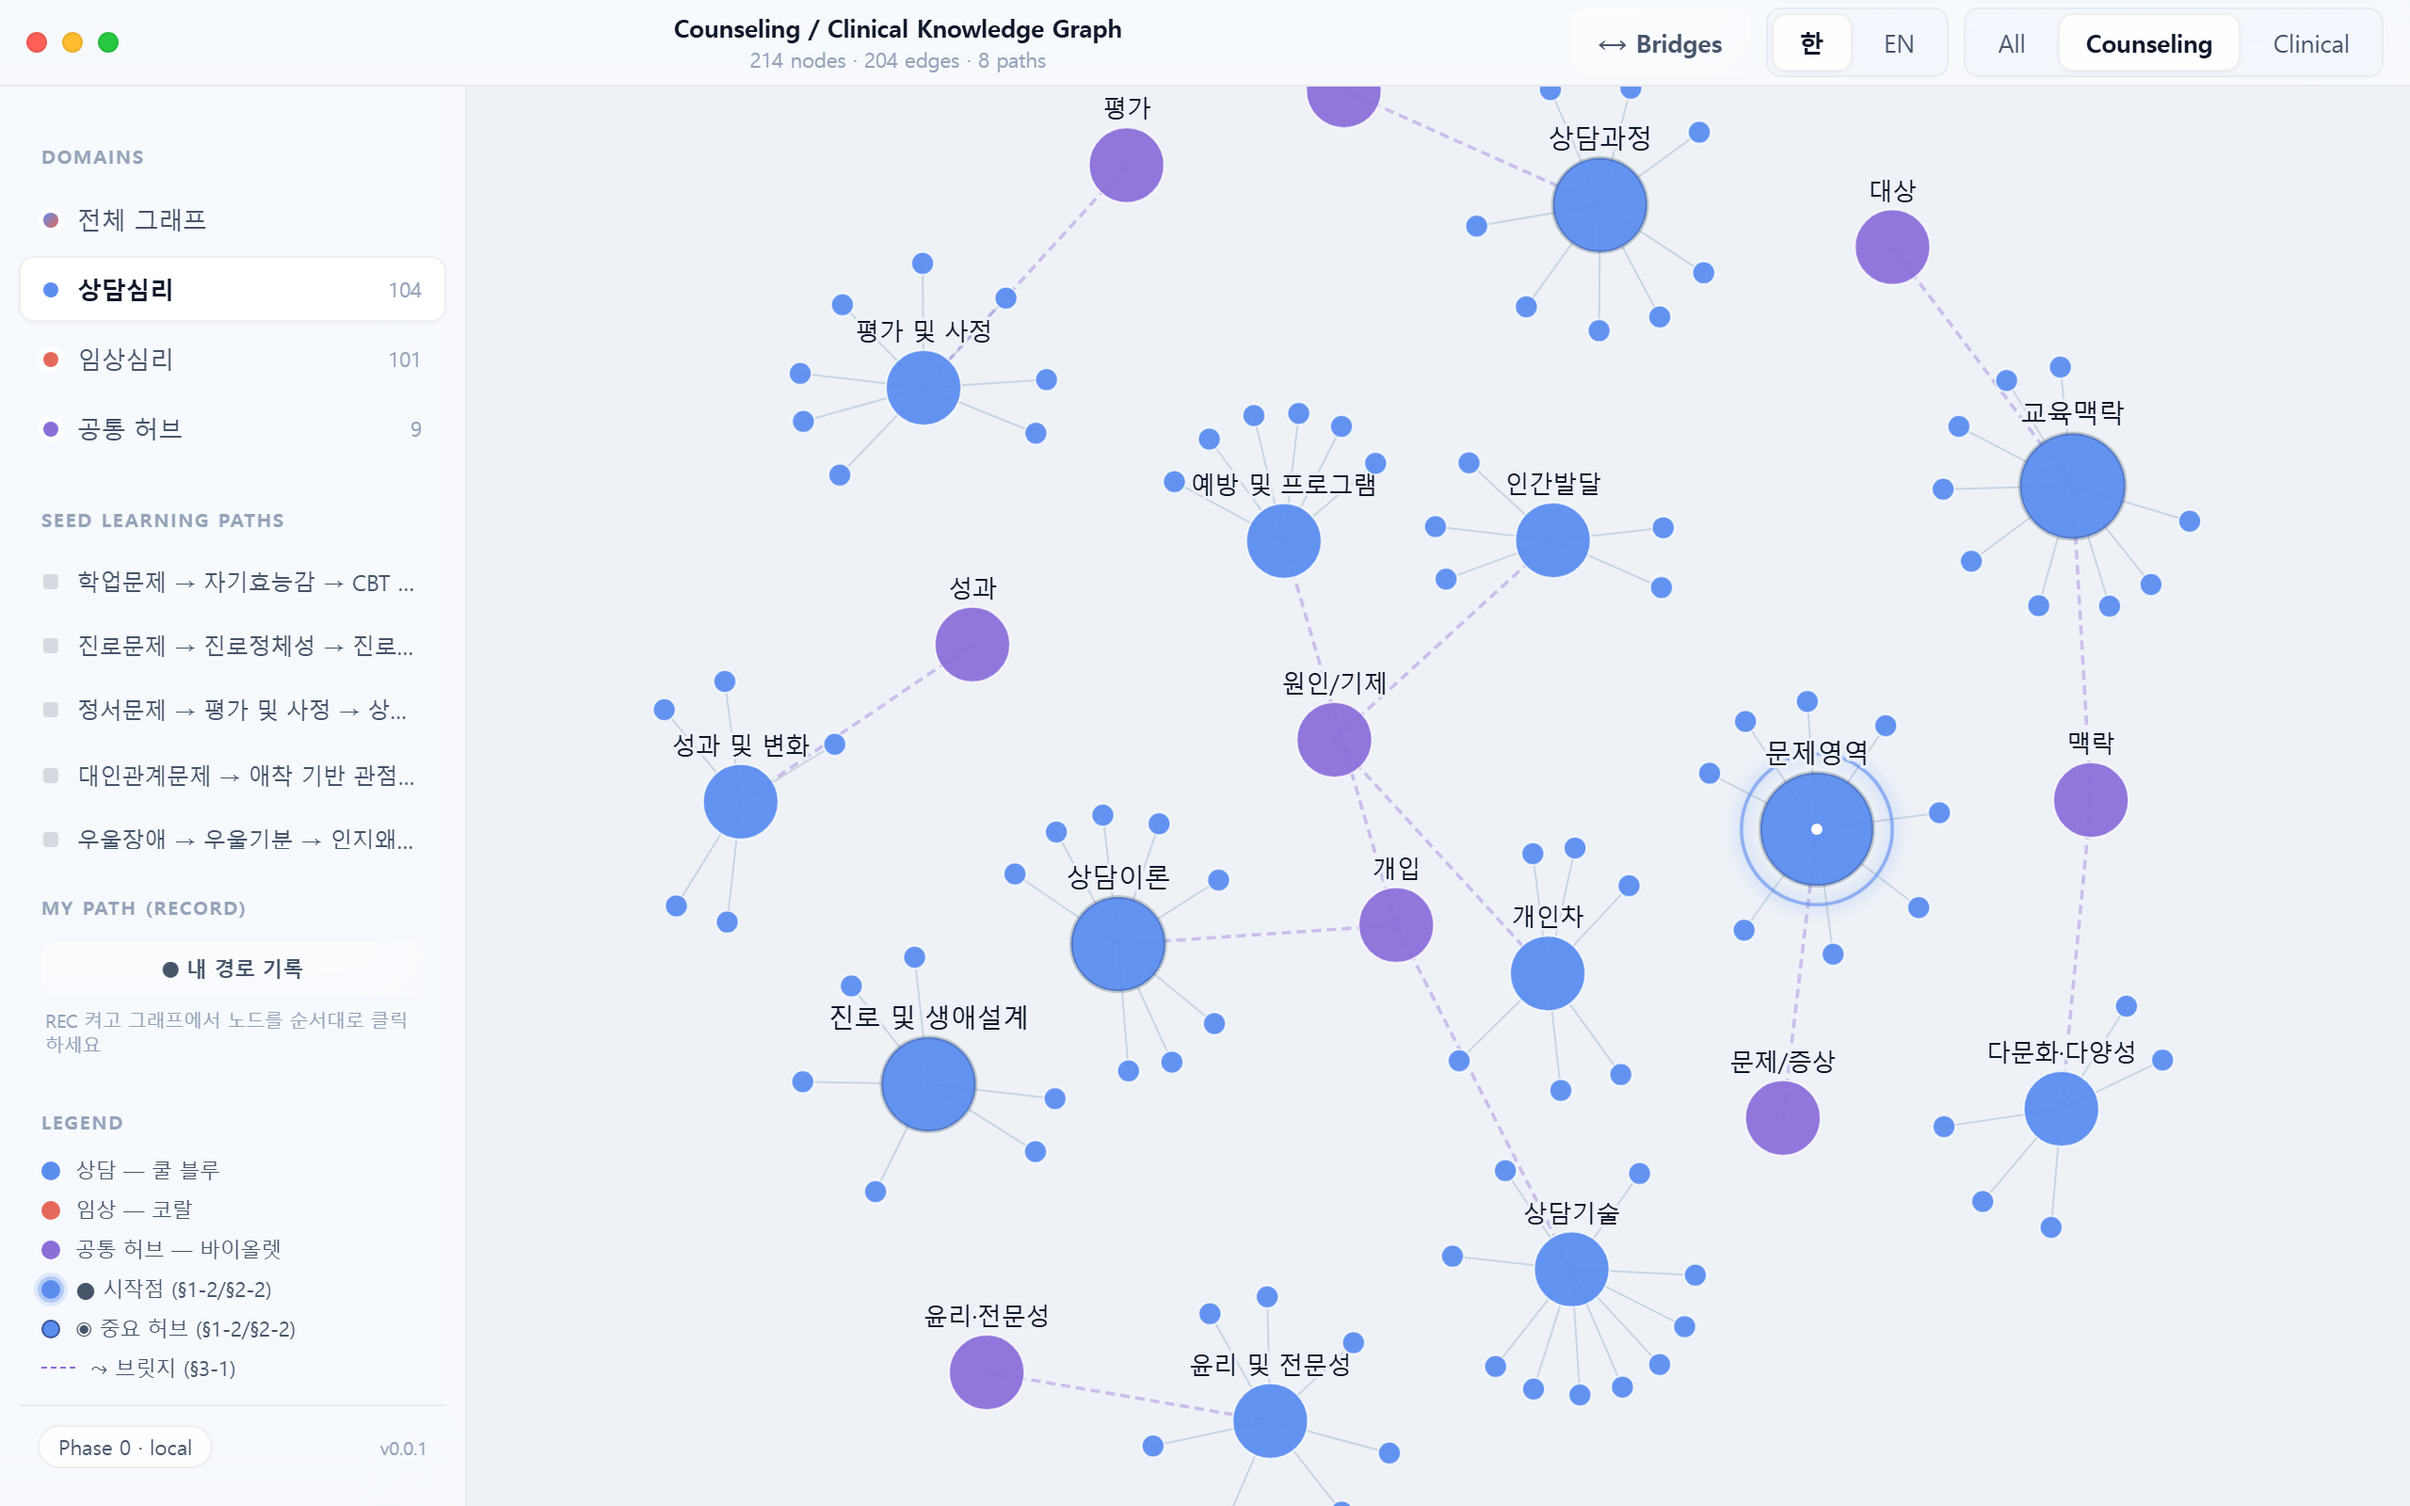
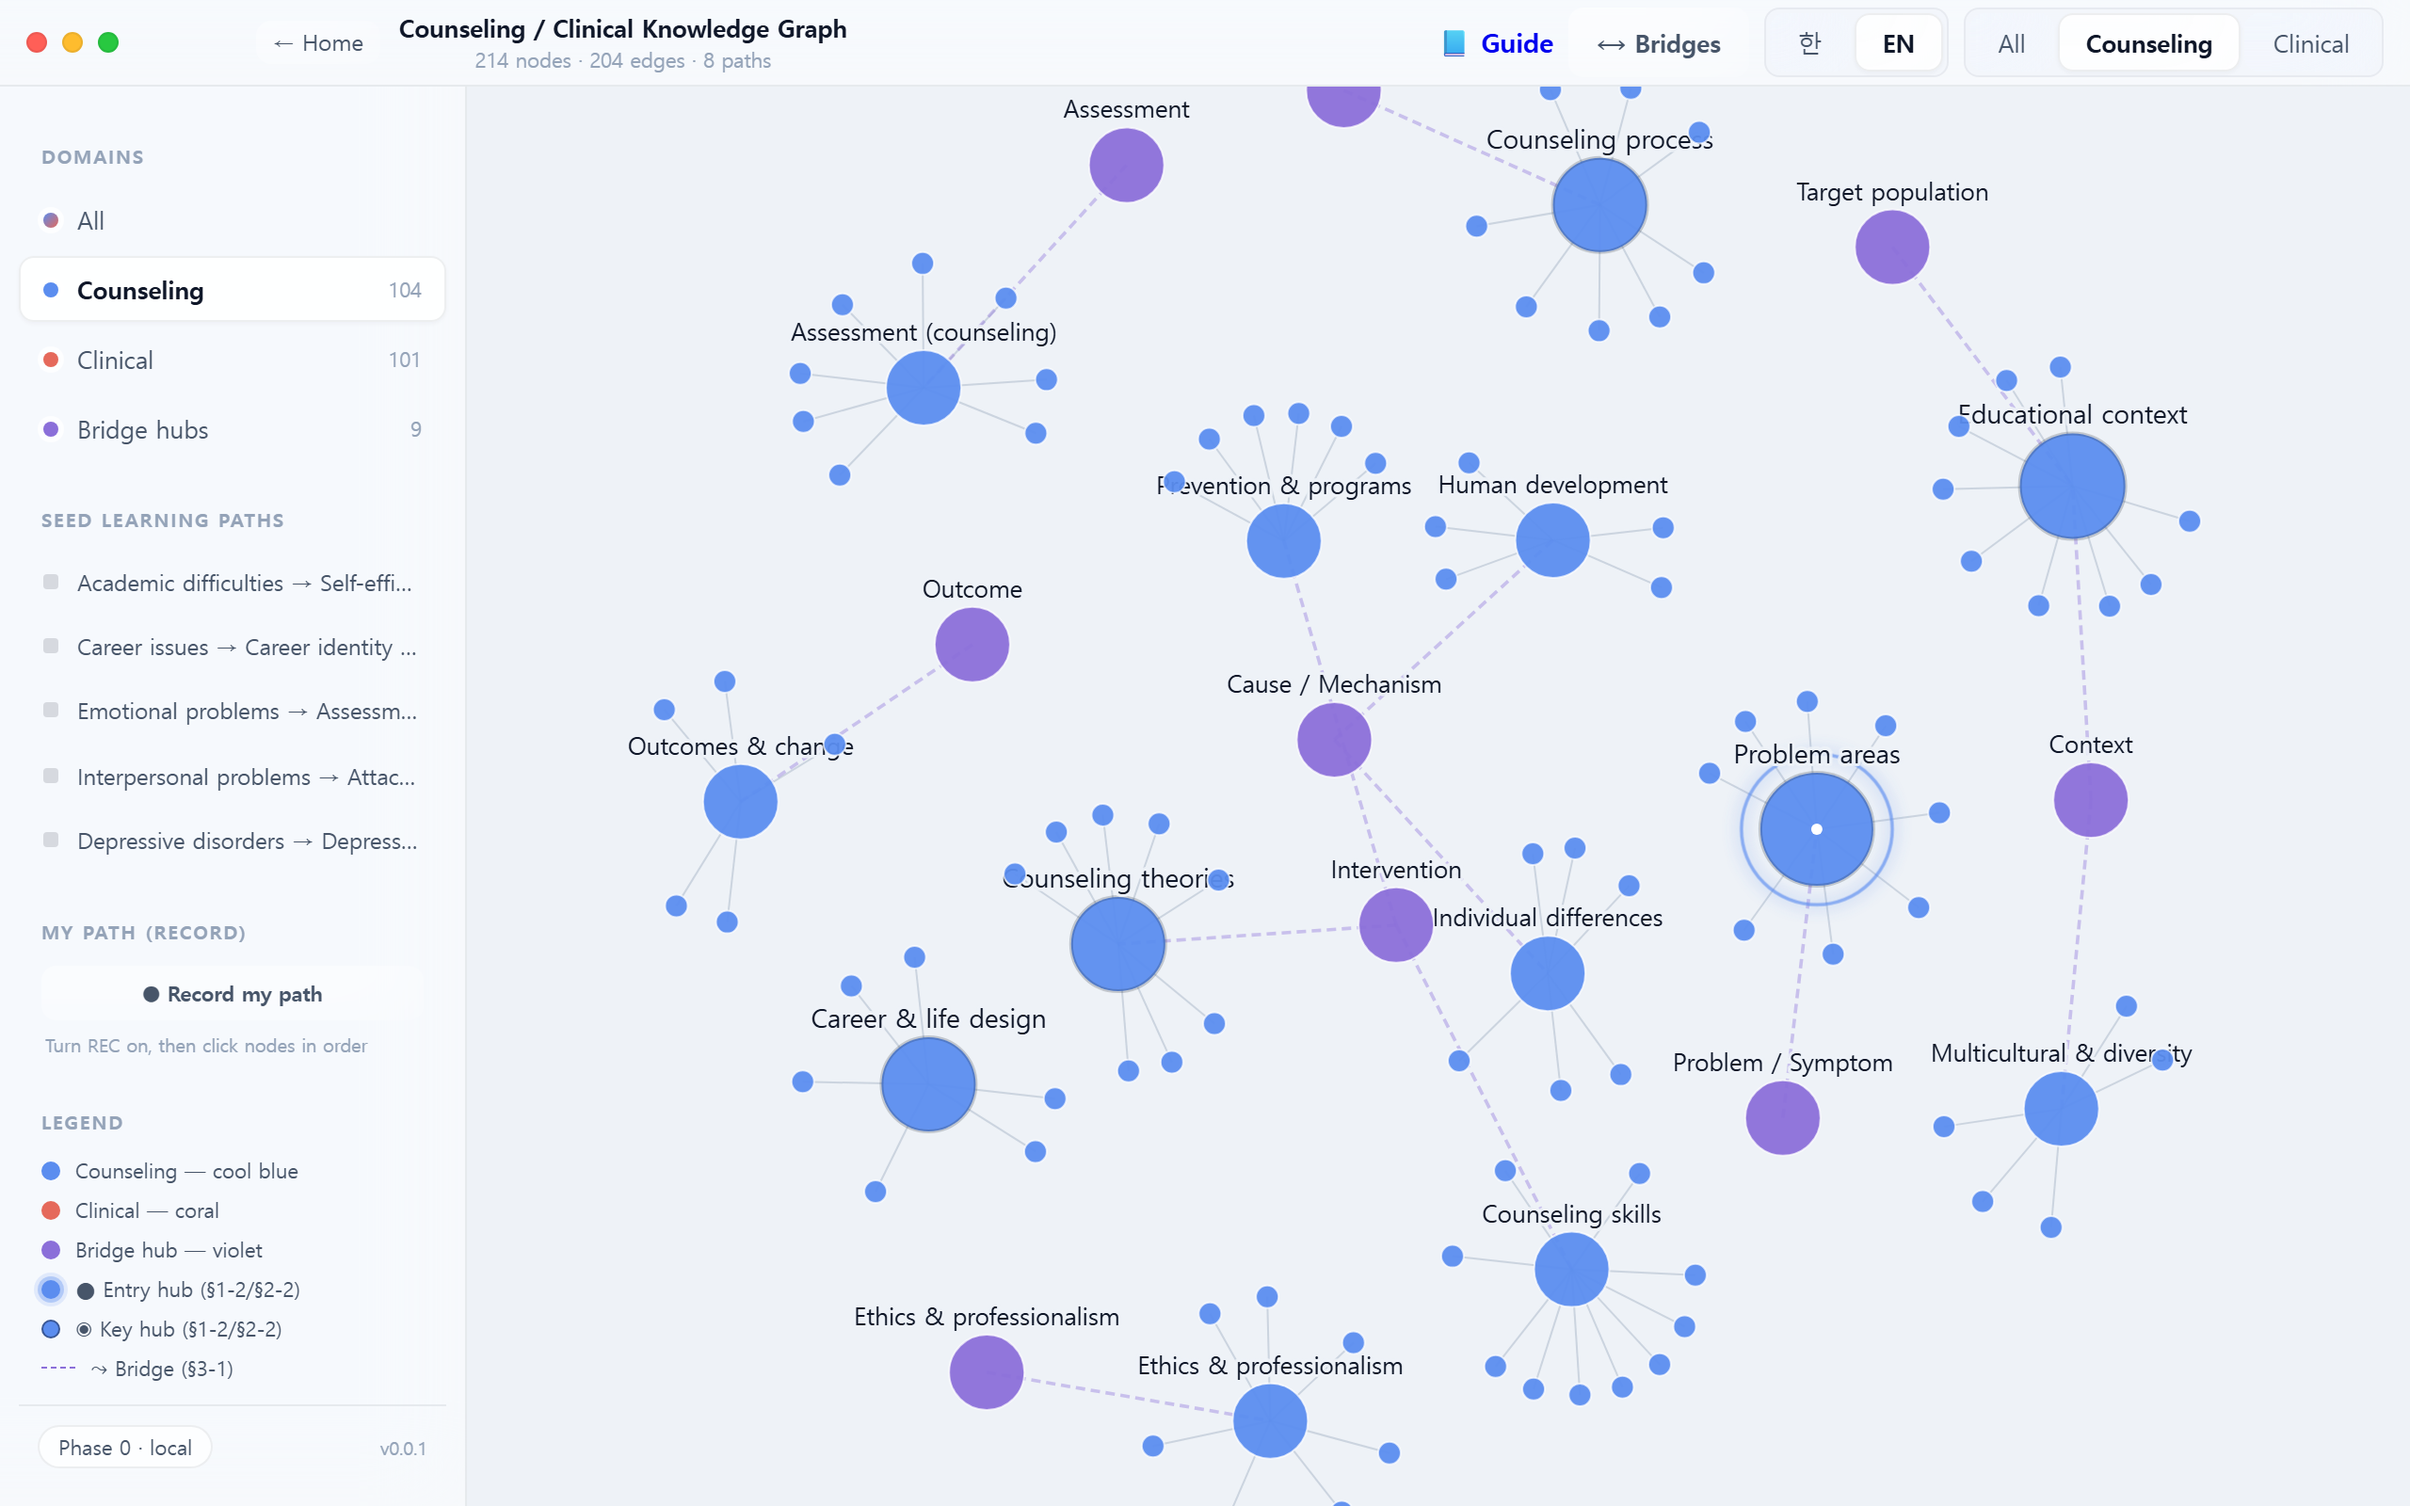
docs: regenerate guide screenshots with English interface
Switch capture-guide.ts to enter the main app in EN mode so the graph overview, bridge overlay, domain filter, node-detail tabs, and seed-path replay all show English labels. Landing shots remain bilingual (ko + en side-by-side for the README).

Also fix seed-path locator (sidebar items are .sidebar-item divs, not buttons).

diff --git a/scripts/capture-guide.ts b/scripts/capture-guide.ts
@@ -38,8 +38,8 @@ async function setStorage(page: any, entries: Record<string, string>) {
   await page.waitForTimeout(2000);
   await shot(page, "landing-en");
 
-  // Enter to main graph (ko)
-  await page.evaluate(() => { localStorage.setItem("lang","ko"); localStorage.setItem("entered","1"); });
+  // Enter to main graph (en — English interface)
+  await page.evaluate(() => { localStorage.setItem("lang","en"); localStorage.setItem("entered","1"); });
   await page.reload();
   await page.waitForTimeout(2500);
   await shot(page, "graph-overview");
@@ -90,18 +90,17 @@ async function setStorage(page: any, entries: Record<string, string>) {
   await shot(page, "node-detail-notes");
 
   // Close panel, show seed path expanded
-  await page.keyboard.press("Escape").catch(()=>{});
+  await page.locator(".detail-panel .close-btn").first().click().catch(()=>{});
   await page.waitForTimeout(300);
-  // Click a seed path title
-  const seedPath = page.locator("text=학업문제").first();
+  // Click the first seed path in the sidebar
+  const seedPath = page.locator(".sidebar .sidebar-item").filter({ hasText: "→" }).first();
   if (await seedPath.count()) {
     await seedPath.click();
     await page.waitForTimeout(1200);
     await shot(page, "seed-path-step");
   }
 
-  // Switch to EN
-  await page.evaluate(() => localStorage.setItem("lang", "en"));
+  // Snapshot full English graph view (same lang; kept for README reference)
   await page.reload();
   await page.waitForTimeout(2500);
   await shot(page, "graph-english");
